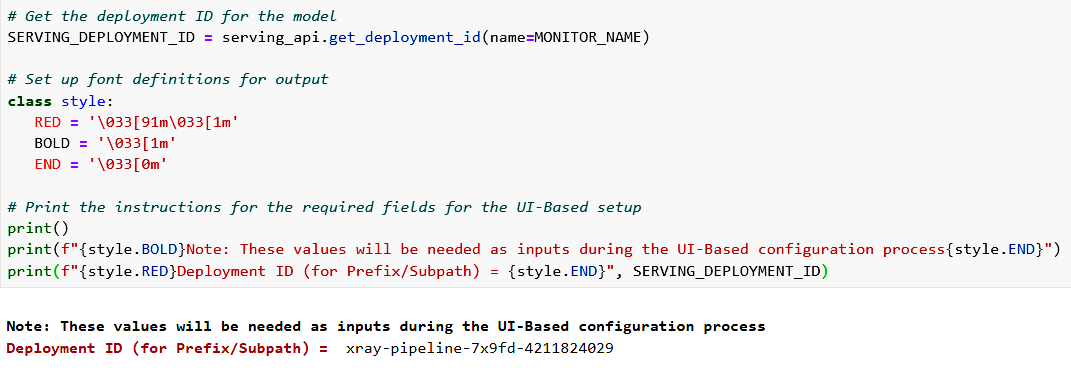
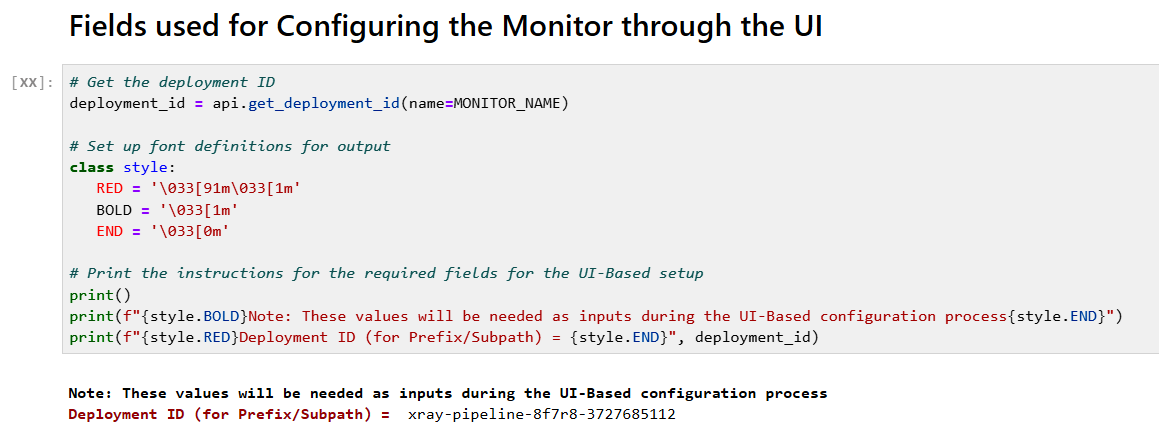
Updates

Changed region(s): [[0.0, 0.1765, 1.0, 0.7941], [0.0, 0.8529, 0.7087, 0.9706], [0.0, 0.0294, 0.7087, 0.1176]]

diff --git a/image_cloudevents/README-ui.md b/image_cloudevents/README-ui.md
@@ -112,7 +112,8 @@ In order for the monitor example to operate, a model must be trained and deploye
 - The pipeline will create a new version of the Model `image-mm-kf`
 > **Note** Wait for the pipeline to complete before continuing
 
-- The `train` script will provide information that is necessary when configuration the monitor in this example.  They are available in the 2nd to last cell, labeled `Fields Used for Configuring the Monitor through the UI`.  They will be referenced in the Drift & Performance configuration sections.
+- After the pipeline is complete, and the deployed model has been created on the serving cluster, select the 2nd from the last cell in the `train.ipynb` script and `Run Selected Cell` (not "Run All Cells")
+- This will provide information that is necessary when configuration the monitor in this example.  They are available in the 2nd to last cell, labeled `Fields Used for Configuring the Monitor through the UI`.  They will be referenced in the Drift & Performance configuration sections.
 
 <img src="./Images/Resources_Image.png" width=100% height=100%>
 
@@ -180,14 +181,14 @@ Follow the instructions in this section to setup the basic monitor
       - If the monitor is on a **different cluster** than the served model, there will be 2 more fields in this tab
         - **Dataset:** `image-mm-kf-s3`
         - **Prefix/Subpath:** `<Deployment ID of Served Model>
-        > **Note** The deployment ID of the served model is available from the `resources.ipynb` run as described at the end of `Section 4`
+        > **Note** The deployment ID of the served model is available from the `train.ipynb` run as described at the end of `Section 4`
   - Leave the other fields at their current selection <br><br>
   - `Performance` tab
     - Check `Enable`
     - **Compute Metrics:** `Labelled Data`
     - **Dataset":** `image-mm-kf-s3`
     - **Prefix/Subpath:** <code>\<Deployment ID of Served Model\>/**livedata**</code>
-    > **Note** The deployment ID of the served model is available from the `resources.ipynb` run as described at the end of `Section 4`
+    > **Note** The deployment ID of the served model is available from the `train.ipynb` run as described at the end of `Section 4`
     - **Groundtruth Column Name:** `label`
     - **Prediction Column Name:** `output`
     - **Timestamp Column Name:** `timestamp`
